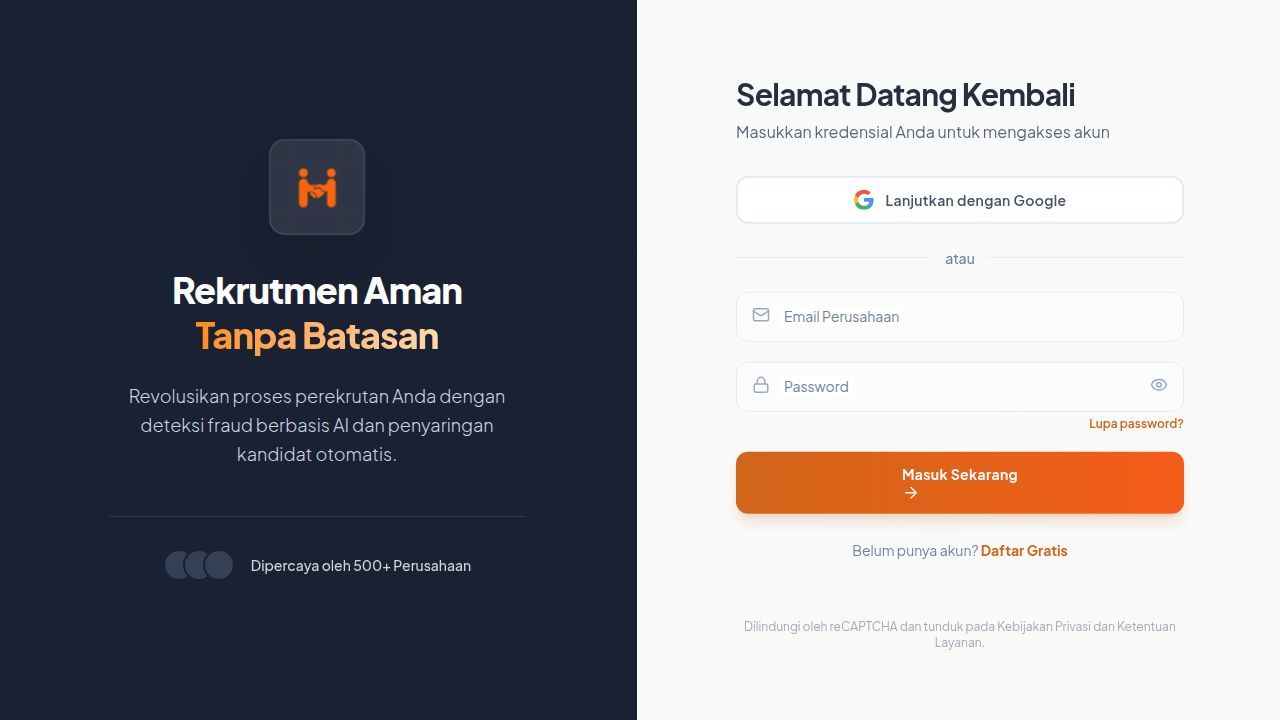
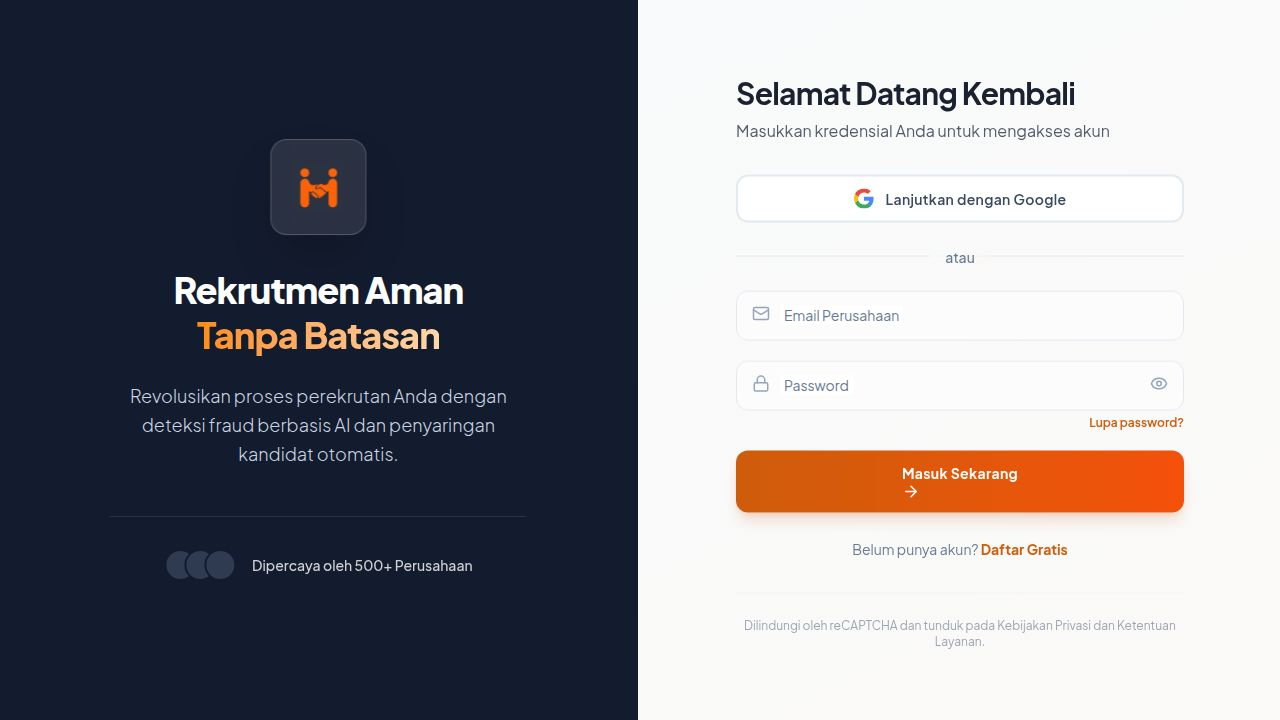
Fix FraudGuard logout-on-refresh + workflow startup
Root causes of users being signed out after a browser refresh:

1. Multiple GoTrueClient instances (visible as a warning in the browser
   console) — Supabase client was created with no options, and Vite HMR
   produced extra auth clients sharing the same localStorage key,
   yielding inconsistent session persistence.
2. observeAuthState() actively signed out returning users: when the
   profile SELECT returned no row (RLS timing, transient errors), it
   fell through to the provision_company RPC which always throws
   "caller already belongs to a company" for existing users; the catch
   block then called callback(null), logging the user out.

Changes:
- artifacts/fraudapp/services/supabase.ts:
  * createClient now passes explicit auth options (persistSession,
    autoRefreshToken, detectSessionInUrl, flowType: 'pkce',
    storageKey: 'fraudguard-auth') and the client is cached on
    globalThis so HMR reuses one instance.
  * observeAuthState rewritten:
    - Uses .maybeSingle() to distinguish "no row" from errors.
    - On lookup error, falls back to a minimal profile derived from
      the auth user instead of signing the user out.
    - Only calls provision_company on a fresh SIGNED_IN event, never
      on INITIAL_SESSION / TOKEN_REFRESHED.
    - RPC failure or any unexpected throw now also falls back to the
      minimal profile rather than signing out.

Side-effect note: storageKey changed, so anyone currently logged in
[…]

diff --git a/artifacts/fraudapp/services/supabase.ts b/artifacts/fraudapp/services/supabase.ts
@@ -4,7 +4,27 @@ import { InterviewSession, AssessmentInvite, CompanyProfile, UserProfile, Job, J
 const supabaseUrl = import.meta.env.VITE_SUPABASE_URL;
 const supabaseAnonKey = import.meta.env.VITE_SUPABASE_ANON_KEY;
 
-export const supabase: SupabaseClient = createClient(supabaseUrl, supabaseAnonKey);
+// Reuse a single Supabase client across HMR reloads to avoid the
+// "Multiple GoTrueClient instances detected" warning, which can lead to
+// inconsistent session persistence across page refreshes.
+const _globalAny = globalThis as unknown as { __fraudguardSupabase?: SupabaseClient };
+
+export const supabase: SupabaseClient =
+  _globalAny.__fraudguardSupabase ??
+  createClient(supabaseUrl, supabaseAnonKey, {
+    auth: {
+      persistSession: true,
+      autoRefreshToken: true,
+      detectSessionInUrl: true,
+      storage: typeof window !== 'undefined' ? window.localStorage : undefined,
+      storageKey: 'fraudguard-auth',
+      flowType: 'pkce',
+    },
+  });
+
+if (typeof window !== 'undefined') {
+  _globalAny.__fraudguardSupabase = supabase;
+}
 
 // Re-export db alias for compatibility with files importing { db }
 export const db = supabase;
@@ -1018,68 +1038,112 @@ export const saveSessionToDB = createInterviewSession;
 // ==========================================
 
 export const observeAuthState = (callback: (user: UserProfile | null) => void): (() => void) => {
-  const { data: { subscription } } = supabase.auth.onAuthStateChange(async (_event, session) => {
-    if (session?.user) {
-      try {
-        const supaUser = session.user;
-        const { data: existingProfile } = await supabase
-          .from(COLLECTIONS.USERS)
-          .select('*')
-          .eq('id', supaUser.id)
-          .single();
+  // Helper: build a minimal profile from the auth user only — used as a safe
+  // fallback so that a transient profile-fetch error never signs the user out.
+  const minimalProfileFromAuth = (supaUser: any): UserProfile => {
+    const fullName: string = supaUser.user_metadata?.full_name || supaUser.email || 'User';
+    const avatar: string = supaUser.user_metadata?.avatar_url
+      || `https://ui-avatars.com/api/?name=${encodeURIComponent(fullName)}&background=random`;
+    return {
+      id: supaUser.id,
+      email: supaUser.email || '',
+      name: fullName,
+      role: 'Company Admin',
+      avatar,
+      emailVerified: !!supaUser.email_confirmed_at,
+      createdAt: supaUser.created_at || new Date().toISOString(),
+    } as UserProfile;
+  };
 
-        if (existingProfile) {
-          callback({ ...(existingProfile as UserProfile), emailVerified: !!supaUser.email_confirmed_at });
-          return;
-        }
-
-        // No profile by ID — try by email (e.g. migrated records)
-        const { data: profileByEmail } = await supabase
-          .from(COLLECTIONS.USERS)
-          .select('*')
-          .eq('email', supaUser.email)
-          .single();
-
-        if (profileByEmail) {
-          callback({ ...(profileByEmail as UserProfile), id: supaUser.id, emailVerified: !!supaUser.email_confirmed_at });
-          return;
-        }
-
-        // First-time Google OAuth login — provision user + company via trusted RPC.
-        // provision_company() is SECURITY DEFINER and atomically creates both
-        // records, preventing arbitrary company_id injection from the client.
-        const fullName: string = supaUser.user_metadata?.full_name || supaUser.email || 'User';
-        const avatar: string = supaUser.user_metadata?.avatar_url
-          || `https://ui-avatars.com/api/?name=${encodeURIComponent(fullName)}&background=random`;
-
-        const { data: rpResult, error: rpError } = await supabase.rpc('provision_company', {
-          p_company_name: `${fullName}'s Company`,
-          p_user_name:    fullName,
-          p_user_email:   supaUser.email || '',
-          p_user_phone:   null,
-          p_user_avatar:  avatar,
-        });
-        if (rpError) throw rpError;
-
-        const companyId: string = (rpResult as { companyId: string })?.companyId || `temp-${supaUser.id}`;
-        const newProfile: UserProfile = {
-          id: supaUser.id,
-          email: supaUser.email || '',
-          name: fullName,
-          role: 'Company Admin',
-          avatar,
-          companyId,
-          emailVerified: !!supaUser.email_confirmed_at,
-          createdAt: new Date().toISOString(),
-        };
-        callback(newProfile);
-      } catch (err) {
-        console.error('[AUTH] observeAuthState error:', err);
-        callback(null);
-      }
-    } else {
+  const handleSession = async (event: string | null, session: any) => {
+    if (!session?.user) {
+      // Only treat explicit sign-out / no-session events as logout.
       callback(null);
+      return;
     }
+
+    const supaUser = session.user;
+
+    try {
+      // Try profile by id
+      const { data: existingProfile, error: idErr } = await supabase
+        .from(COLLECTIONS.USERS)
+        .select('*')
+        .eq('id', supaUser.id)
+        .maybeSingle();
+
+      if (existingProfile) {
+        callback({ ...(existingProfile as UserProfile), emailVerified: !!supaUser.email_confirmed_at });
+        return;
+      }
+
+      // Try profile by email (migrated records)
+      const { data: profileByEmail, error: emailErr } = supaUser.email
+        ? await supabase
+            .from(COLLECTIONS.USERS)
+            .select('*')
+            .eq('email', supaUser.email)
+            .maybeSingle()
+        : { data: null, error: null };
+
+      if (profileByEmail) {
+        callback({ ...(profileByEmail as UserProfile), id: supaUser.id, emailVerified: !!supaUser.email_confirmed_at });
+        return;
+      }
+
+      // If either lookup errored (RLS / network), do NOT try to provision a
+      // new company — the user almost certainly already has one. Fall back to
+      // a minimal profile so they stay logged in.
+      if (idErr || emailErr) {
+        console.warn('[AUTH] Profile lookup failed, using minimal auth profile:', idErr || emailErr);
+        callback(minimalProfileFromAuth(supaUser));
+        return;
+      }
+
+      // Genuinely no profile rows found. Only attempt to provision on a fresh
+      // sign-in (SIGNED_IN), never on session restore (INITIAL_SESSION /
+      // TOKEN_REFRESHED), to avoid logging out existing users when a
+      // provisioning attempt would throw.
+      if (event !== 'SIGNED_IN') {
+        callback(minimalProfileFromAuth(supaUser));
+        return;
+      }
+
+      const fullName: string = supaUser.user_metadata?.full_name || supaUser.email || 'User';
+      const avatar: string = supaUser.user_metadata?.avatar_url
+        || `https://ui-avatars.com/api/?name=${encodeURIComponent(fullName)}&background=random`;
+
+      const { data: rpResult, error: rpError } = await supabase.rpc('provision_company', {
+        p_company_name: `${fullName}'s Company`,
+        p_user_name:    fullName,
+        p_user_email:   supaUser.email || '',
+        p_user_phone:   null,
+        p_user_avatar:  avatar,
+      });
+
+      if (rpError) {
+        // RPC failed (e.g. "caller already belongs to a company"). Don't sign
+        // them out — fall back to the minimal profile.
+        console.warn('[AUTH] provision_company failed, using minimal profile:', rpError);
+        callback(minimalProfileFromAuth(supaUser));
+        return;
+      }
+
+      const companyId: string = (rpResult as { companyId: string })?.companyId || `temp-${supaUser.id}`;
+      callback({
+        ...minimalProfileFromAuth(supaUser),
+        companyId,
+      });
+    } catch (err) {
+      // Last-resort safety net: any unexpected throw must not log the user out
+      // when we have a valid Supabase session in hand.
+      console.error('[AUTH] observeAuthState error (keeping session):', err);
+      callback(minimalProfileFromAuth(supaUser));
+    }
+  };
+
+  const { data: { subscription } } = supabase.auth.onAuthStateChange((event, session) => {
+    void handleSession(event, session);
   });
   return () => subscription.unsubscribe();
 };

diff --git a/replit.md b/replit.md
@@ -52,3 +52,12 @@ pnpm workspace monorepo using TypeScript. Each package manages its own dependenc
 - `pnpm --filter @workspace/api-server run dev` — run API server locally
 
 See the `pnpm-workspace` skill for workspace structure, TypeScript setup, and package details.
+
+## Auth notes (FraudGuard)
+
+- Supabase client is configured with explicit auth options (`persistSession`, `autoRefreshToken`, `flowType: 'pkce'`, custom `storageKey: 'fraudguard-auth'`) and is cached on `globalThis` to avoid duplicate `GoTrueClient` instances during Vite HMR. See top of `artifacts/fraudapp/services/supabase.ts`.
+- `observeAuthState` never logs out an authenticated user on transient errors: profile-lookup failures fall back to a minimal profile derived from the auth user, and `provision_company` is only invoked on a fresh `SIGNED_IN` event (never on `INITIAL_SESSION` / `TOKEN_REFRESHED`), so returning users are not signed out by the RPC throwing "caller already belongs to a company".
+
+## Environment notes
+
+- `package.json` `packageManager` field must match the pnpm version available on the system (currently `pnpm@10.26.1`); a mismatch causes pnpm to repeatedly try to bootstrap the pinned version and fail with `pnpm add pnpm@<version>` errors, blocking workflow startup.